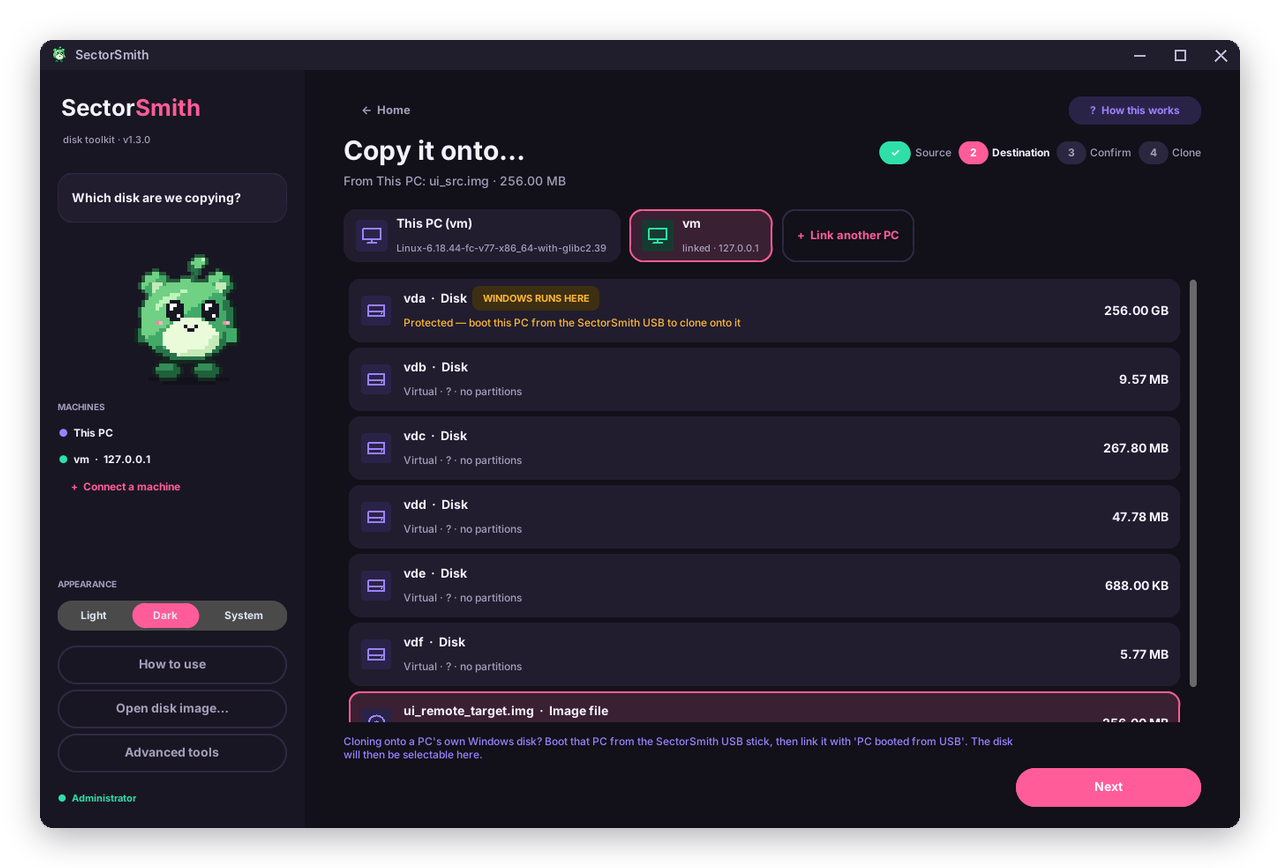
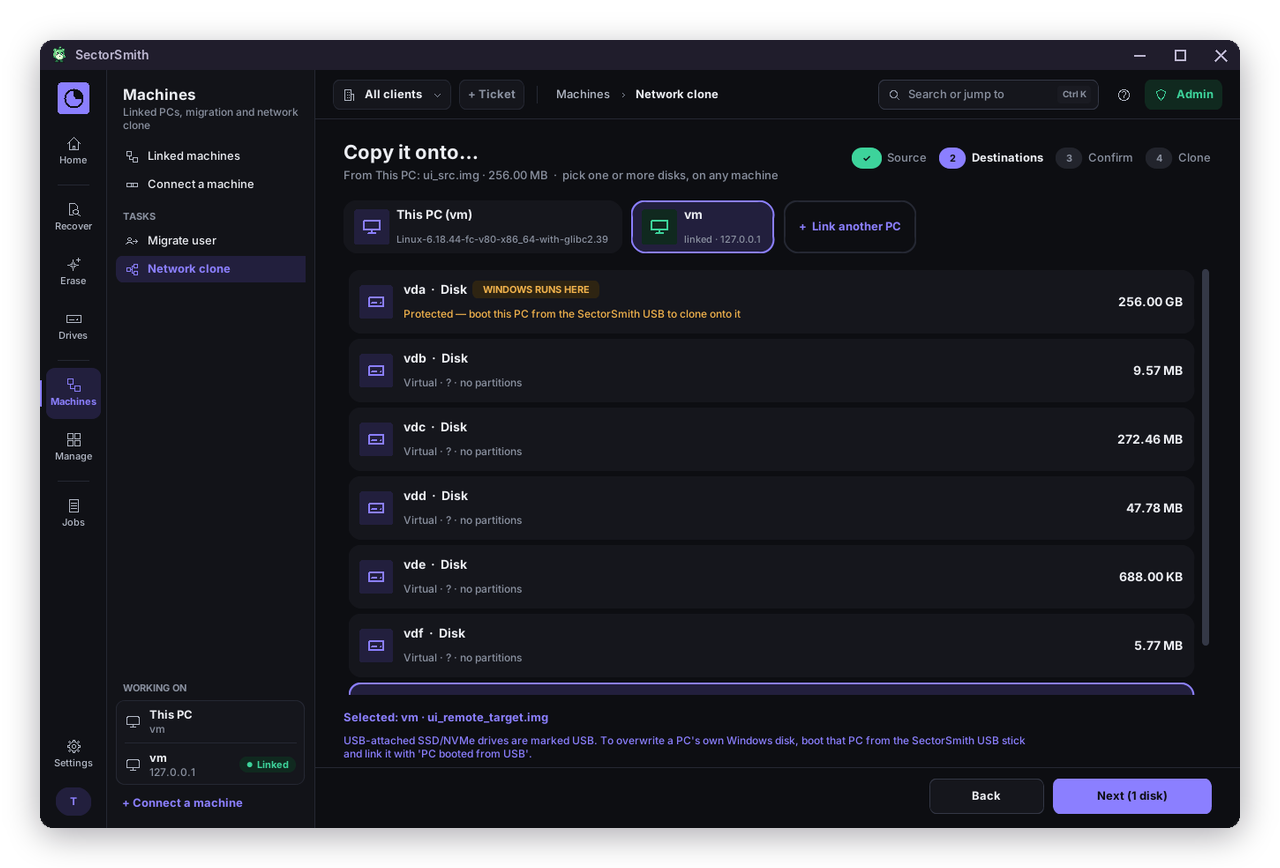
README: new UI screenshots everywhere
Regenerated all README images from the running app with tools/make_docs.py,
which now drives the new UI: correct erase phrase, a client and ticket on
every job, Home taken last so recent jobs are filled in, and new shots of
Drives, Machines, Jobs, Manage, Settings and the Ctrl+K palette. The banner
and sweep animation use the indigo theme and the new tagline.

Highlights, tour and guides now describe the grouped menu, top bar and
side panel instead of the old sidebar.

diff --git a/tools/make_docs.py b/tools/make_docs.py
@@ -42,7 +42,8 @@ def frames(anim, scale):
 # --------------------------------------------------------------------------- screenshots
 def take_screenshots():
     from tkinter import filedialog, messagebox
-    from sectorsmith.ui import main as M, screens as S, theme
+    from sectorsmith.ui import main as M, screens as S, theme, workspace as WS, settings as ST
+    from sectorsmith.ui import deploy_screens as DS
     from sectorsmith.util import app_dir
     try:
         os.remove(app_dir() / "settings.json")
@@ -108,6 +109,8 @@ def take_screenshots():
     pump(1.2)
     shot("welcome")
     press("Skip")
+    app.set_client("Northwind Dental")
+    app.set_ticket("48213")
     # hide the unreadable sandbox disks so the drive list looks like a real PC
     real = app.inventory()
     app._inventory = []
@@ -116,9 +119,6 @@ def take_screenshots():
     app._inventory = [x for x in app.inventory(True) if x[0].is_image]
     _ = real
     pump(4)  # let toasts disappear
-    shot("home_light")
-    mode("dark")
-    shot("home_dark")
 
     mode("light")
     app.go(S.RecoverWizard)
@@ -138,20 +138,20 @@ def take_screenshots():
     press("Next")
     shot("wipe_strength")
     press("Next")
-    type_confirm("WIPE PARTITION 1")
+    type_confirm("ERASE PARTITION 1")
     shot("wipe_confirm")
     # progress screen with a slow fake job so the sweeper is visible
-    _, panel = app.screen.progress("Wiping…", "NIST 800-88 Clear (1 pass + verify) on Disk 2 · Samsung T7 · 1 TB")
+    _, panel = app.screen.progress("Erasing...", "NIST 800-88 Clear (1 pass + verify) on Disk 2 · Samsung T7 · 1 TB")
     app.screen._draw_steps(3)
 
     def fake(prog):
-        prog.reset(2 * 1024 ** 3, "Pass 1 of 1 — writing zeros")
+        prog.reset(2 * 1024 ** 3, "Pass 1 of 1: writing zeros")
         prog.set_detail("pattern 0x00")
         for i in range(100):
             prog.check()
             time.sleep(.05)
             prog.update(int(.52 * prog.total * i / 100))
-    app.run_job("demo", fake, lambda r: None, panel)
+    app.run_job("Erase and certify", fake, lambda r: None, panel)
     pump(4.5)
     shot("progress_dark")
     wait()
@@ -173,7 +173,7 @@ def take_screenshots():
     shot("partitions_found")
 
     mode("light")
-    tmpd = os.path.join(W, "docs_shred")
+    tmpd = os.path.join("/tmp", "Desktop")  # short path, it shows on screen
     os.makedirs(tmpd, exist_ok=True)
     names = ["Payroll 2025.xlsx", "Client contracts", "old-passwords.txt"]
     for n in names:
@@ -199,12 +199,43 @@ def take_screenshots():
     pump(.8)
     shot("guide_dark")
 
+    shutil.rmtree(tmpd, ignore_errors=True)
+
+    # the new workspace pages
+    mode("light")
+    app.go(WS.DrivesScreen)
+    pump(1.5)
+    shot("drives_light")
+    mode("dark")
+    app.go(WS.MachinesScreen)
+    pump(1)
+    shot("machines_dark")
+    mode("light")
+    app.go(WS.JobsScreen)
+    pump(1)
+    shot("jobs_light")
+    app.go(DS.DeployScreen)
+    pump(1.2)
+    shot("manage_light")
+    app.go(ST.SettingsScreen)
+    pump(1)
+    shot("settings_light")
+    mode("dark")
+    app.home()
+    pump(.8)
+    app.open_palette()
+    pump(.8)
+    shot("palette_dark")
+    app.event_generate("<Escape>")
+    pump(.4)
+
+    # Home last, so recent jobs are filled in
     mode("light")
     app.home()
-    pump(.5)
-    app.open_advanced()
-    pump(1.5)
-    shot("advanced")
+    pump(1.2)
+    shot("home_light")
+    mode("dark")
+    shot("home_dark")
     app.destroy()
 
 
@@ -277,13 +308,15 @@ def roam_gif():
 
 def link_shots(folder):
     """Frame screenshots produced by tests/ui_link_smoke.py."""
-    mapping = {"L02_connect_linked": ("connect", False), "L05_migrate_what": ("migrate_what", False),
-               "L06_migrate_done": ("migrate_done", False), "L08_netclone_dest": ("netclone_dest", True),
-               "L10_netclone_running": ("netclone_running", True)}
+    mapping = {"connect_linked": ("connect", False), "migrate_from": ("migrate_from", False),
+               "migrate_what": ("migrate_what", False), "migrate_apps": ("migrate_apps", False),
+               "migrate_done": ("migrate_done", False), "netclone_dest": ("netclone_dest", True),
+               "netclone_running": ("netclone_running", True)}
+    files = sorted(os.listdir(folder))
     for raw, (out, dark) in mapping.items():
-        p = os.path.join(folder, raw + ".png")
-        if os.path.exists(p):
-            framed(raw, src=p, out=out, dark=dark)
+        hits = [f for f in files if f.endswith("_" + raw + ".png")]
+        if hits:
+            framed(raw, src=os.path.join(folder, hits[0]), out=out, dark=dark)
 
 
 def hero():
@@ -297,7 +330,7 @@ def hero():
     glow = Image.new("RGBA", (Wd, Hd), (0, 0, 0, 0))
     gd = ImageDraw.Draw(glow)
     gd.ellipse((-120, 220, 620, 900), fill=(82, 201, 142, 70))
-    gd.ellipse((1050, -260, 1800, 380), fill=(255, 92, 153, 60))
+    gd.ellipse((1050, -260, 1800, 380), fill=(99, 102, 241, 80))
     glow = glow.filter(ImageFilter.GaussianBlur(110))
     bg.alpha_composite(glow)
     # pixel grid texture
@@ -321,17 +354,17 @@ def hero():
     bg.alpha_composite(m, (300, Hd - m.height + 10))
     d = ImageDraw.Draw(bg)
     d.text((80, 96), "SectorSmith", font=font("xb", 92), fill=(244, 241, 255))
-    d.text((84, 204), "The friendly disk toolkit", font=font("sb", 32), fill=(214, 206, 240))
-    d.text((84, 246), "for Windows techs.", font=font("sb", 32), fill=(214, 206, 240))
-    chips = ["Recover", "Wipe", "Partitions", "Health", "Clone"]
+    d.text((84, 204), "The bench toolkit", font=font("sb", 32), fill=(214, 206, 240))
+    d.text((84, 246), "for MSP technicians.", font=font("sb", 32), fill=(214, 206, 240))
+    chips = ["Recover", "Erase", "Migrate", "Deploy", "Clone"]
     x = 86
     layer = Image.new("RGBA", (Wd, Hd), (0, 0, 0, 0))
     ld = ImageDraw.Draw(layer)
     for c in chips:
         w = ld.textlength(c, font=font("b", 19)) + 32
-        ld.rounded_rectangle((x, 308, x + w, 346), 19, fill=(255, 92, 153, 46), outline=(255, 120, 170, 190),
+        ld.rounded_rectangle((x, 308, x + w, 346), 19, fill=(99, 102, 241, 56), outline=(129, 140, 248, 200),
                              width=2)
-        ld.text((x + w / 2, 327), c, font=font("b", 19), fill=(255, 214, 230, 255), anchor="mm")
+        ld.text((x + w / 2, 327), c, font=font("b", 19), fill=(224, 231, 255, 255), anchor="mm")
         x += w + 10
     bg.alpha_composite(layer)
     bg.convert("RGB").save(os.path.join(OUT, "hero.png"), optimize=True)
@@ -378,8 +411,8 @@ def sweep_gif():
         bx = left + 22 * 3
         by = top - 4
         w = 18 + 11 * len(txt)
-        d.rectangle((bx - w / 2 - 3, by - 30, bx + w / 2 + 3, by + 3), fill=(178, 52, 104))
-        d.rectangle((bx - w / 2, by - 27, bx + w / 2, by), fill=(255, 92, 153))
+        d.rectangle((bx - w / 2 - 3, by - 30, bx + w / 2 + 3, by + 3), fill=(55, 48, 163))
+        d.rectangle((bx - w / 2, by - 27, bx + w / 2, by), fill=(99, 102, 241))
         d.text((bx, by - 13), txt, font=font("b", 16), fill=(255, 255, 255), anchor="mm")
         imgs.append(im)
     imgs[0].save(os.path.join(OUT, "sweep.gif"), save_all=True, append_images=imgs[1:], duration=70, loop=0,
@@ -414,7 +447,8 @@ if __name__ == "__main__":
         take_screenshots()
     for n in ["welcome", "home_light", "home_dark", "recover_pick", "recover_type", "recover_results",
               "wipe_strength", "wipe_confirm", "progress_dark", "health_result", "partitions_found", "shred_drop",
-              "clone_dest", "guide_dark", "advanced"]:
+              "clone_dest", "guide_dark", "drives_light", "machines_dark", "jobs_light", "manage_light",
+              "settings_light", "palette_dark"]:
         framed(n)
     hero()
     sweep_gif()

diff --git a/README.md b/README.md
@@ -27,45 +27,44 @@
 <tr>
 <td width="50%" valign="top">
 
-### Step-by-step wizards
-Every job uses the same pattern: **pick a drive → choose options → confirm → done**. Progress dots show where you are, and a **How this works** button is always one click away.
+### Built around the job
+The menu is grouped by what you're doing: **Recover, Erase, Drives, Machines, Manage, Jobs**. Every wizard follows the same pattern, **pick → choose → confirm → done**, and **Ctrl+K** finds any job, drive or machine from anywhere.
 
 </td>
 <td width="50%" valign="top">
 
-### Meet Mossbit
-<img src="docs/images/mossbit.gif" align="right" width="110">
-
-Mossbit is a hand-shaded pixel sprite that reacts to what's happening. It **sweeps across every progress bar**, celebrates when a job finishes, and looks worried when a drive has errors.
+### Client and ticket on every job
+Pick the client and type the ticket number in the top bar. Every job, report and certificate is stamped with **client, ticket and technician**, and the Jobs page shows what ran, where and for whom.
 
 </td>
 </tr>
 <tr>
 <td valign="top">
 
-### Move users to a new PC
-Paste **one PowerShell command** on the new machine (remote session or RMM shell). Both PCs then appear in one window. You choose the user and what comes across, and the files move over an **encrypted link**. Run it again later and only the changes are copied.
+### Migrate users, with their apps
+Paste **one PowerShell command** on the new PC (remote session or RMM shell), or plug the old disk into a USB caddy. Pick the user and what comes across, and SectorSmith reinstalls their apps before copying files over an **encrypted link**. Run it again later and only changes are copied.
 
 </td>
 <td valign="top">
 
-### Mossbit roams around
-<img src="docs/images/mossbit_roam.gif" width="100%">
-Mossbit strolls around the sidebar, turns to glance back, sweeps while work runs, and hops when a job is done. Click it for a little celebration.
+### Erase and certify
+Uses the drive's own **ATA Secure Erase or NVMe Sanitize** when it can (NIST 800-88 Purge), checks the result, and produces a **branded A4 certificate** with your logo, the drive's serial and a QR code.
 
 </td>
 </tr>
 <tr>
 <td valign="top">
 
-### Built for MSP work
-Wipe certificates with drive model, serial number, method and verification result. ddrescue-style imaging that keeps going through bad sectors. The system disk is protected, and a partition-table backup is saved before any change.
+### Deploy software (preview)
+Drop an installer to build a package with silent switches and detection. Deploy to every PC, one client or one PC, and run maintenance with a **check step before anything changes**.
 
 </td>
 <td valign="top">
 
-### Light, Dark or System
-The appearance follows Windows or your own choice, and it's remembered. Drag and drop works everywhere: drop files to shred them, or drop a `.img` / `.vhd` to open it as a drive.
+### Mossbit, on your terms
+<img src="docs/images/mossbit.gif" align="right" width="90">
+
+The pixel helper sweeps progress bars and reacts to results. Choose **Full, Subtle (default) or Off** in Settings, and press **Ctrl+Shift+P** for Presentation mode when you're sharing your screen with a client.
 
 </td>
 </tr>
@@ -73,7 +72,7 @@ The appearance follows Windows or your own choice, and it's remembered. Drag and
 
 <div align="center">
 <img src="docs/images/sweep.gif" alt="Mossbit sweeping the progress bar" width="80%">
-<br><sub>Mossbit sweeps the progress bar clean while a wipe runs.</sub>
+<br><sub>Mossbit sweeps the progress bar clean while an erase runs.</sub>
 </div>
 
 ---
@@ -90,24 +89,36 @@ The appearance follows Windows or your own choice, and it's remembered. Drag and
 
 <table>
 <tr>
-<td><img src="docs/images/redesign/home_light.png" alt="Home, light"><p align="center"><sub><b>Home</b> · light</sub></p></td>
-<td><img src="docs/images/redesign/home_dark.png" alt="Home, dark"><p align="center"><sub><b>Home</b> · dark</sub></p></td>
+<td><img src="docs/images/home_light.png" alt="Home, light"><p align="center"><sub><b>Home</b>: today's jobs, linked machines, start a job</sub></p></td>
+<td><img src="docs/images/home_dark.png" alt="Home, dark"><p align="center"><sub><b>Home</b> · dark</sub></p></td>
 </tr>
 <tr>
-<td><img src="docs/images/redesign/drives_light.png" alt="Drives"><p align="center"><sub><b>Drives</b>: pick a drive, then the job</sub></p></td>
-<td><img src="docs/images/redesign/palette_light.png" alt="Command palette"><p align="center"><sub><b>Ctrl+K</b> to find any job</sub></p></td>
+<td><img src="docs/images/drives_light.png" alt="Drives"><p align="center"><sub><b>Drives</b>: pick a drive, then the job</sub></p></td>
+<td><img src="docs/images/palette_dark.png" alt="Command palette"><p align="center"><sub><b>Ctrl+K</b> finds any job, drive or machine</sub></p></td>
 </tr>
 <tr>
 <td><img src="docs/images/recover_results.png" alt="Deleted files found"><p align="center"><sub><b>Recover files</b> with original names and folders</sub></p></td>
-<td><img src="docs/images/progress_dark.png" alt="Wipe in progress"><p align="center"><sub><b>Live progress</b>: speed, time left, processed</sub></p></td>
+<td><img src="docs/images/wipe_confirm.png" alt="Erase confirmation"><p align="center"><sub><b>Erase and certify</b>: typed confirmation</sub></p></td>
+</tr>
+<tr>
+<td><img src="docs/images/progress_dark.png" alt="Erase in progress"><p align="center"><sub><b>Live progress</b>: speed, time left, processed</sub></p></td>
+<td><img src="docs/images/health_result.png" alt="Health check"><p align="center"><sub><b>Drive health</b> in plain English</sub></p></td>
 </tr>
 <tr>
 <td><img src="docs/images/connect.png" alt="Connect a machine"><p align="center"><sub><b>Connect a machine</b> with one command</sub></p></td>
-<td><img src="docs/images/migrate_what.png" alt="Move a user"><p align="center"><sub><b>Move a user</b>: pick what comes across</sub></p></td>
+<td><img src="docs/images/migrate_what.png" alt="Migrate user"><p align="center"><sub><b>Migrate user</b>: pick what comes across</sub></p></td>
+</tr>
+<tr>
+<td><img src="docs/images/machines_dark.png" alt="Machines"><p align="center"><sub><b>Machines</b>: linked PCs, migration and network clone</sub></p></td>
+<td><img src="docs/images/jobs_light.png" alt="Jobs"><p align="center"><sub><b>Jobs</b>: every job with client, ticket and result</sub></p></td>
+</tr>
+<tr>
+<td><img src="docs/images/manage_light.png" alt="Manage"><p align="center"><sub><b>Manage</b>: software library and deployments</sub></p></td>
+<td><img src="docs/images/settings_light.png" alt="Settings"><p align="center"><sub><b>Settings</b>: theme, Mossbit, presentation mode, branding</sub></p></td>
 </tr>
 <tr>
 <td><img src="docs/images/partitions_found.png" alt="Lost partitions found"><p align="center"><sub><b>Lost partitions</b> found and ready to restore</sub></p></td>
-<td><img src="docs/images/health_result.png" alt="Health check"><p align="center"><sub><b>Drive health</b> in plain English</sub></p></td>
+<td><img src="docs/images/shred_drop.png" alt="Shred files"><p align="center"><sub><b>Shred files</b>: drop them in</sub></p></td>
 </tr>
 </table>
 
@@ -176,12 +187,12 @@ Use this when a drive suddenly shows as unallocated, RAW or "needs formatting", 
 <img src="docs/images/partitions_found.png" width="70%">
 
 > [!TIP]
-> Afterwards, Windows may need a rescan: **Disk Management → Action → Rescan Disks**. To undo, restore the saved backup from **Advanced tools → Overview**.
+> Afterwards, Windows may need a rescan: **Disk Management → Action → Rescan Disks**. To undo, restore the saved backup from **Drives → Expert tools → Overview**.
 
 </details>
 
 <details>
-<summary><b>🧽 Wipe a drive</b></summary>
+<summary><b>🧽 Erase and certify a drive</b></summary>
 
 <br>
 
@@ -198,7 +209,7 @@ Securely erase a whole disk or a single partition before it's reused, returned o
    | **Thorough** | DoD 5220.22-M 3-pass + verify | Policy requires multi-pass |
    | *More…* | HMG IS5, DoD 7-pass, Schneier, Gutmann 35, custom pattern | Special requirements |
 
-4. **Type to confirm**, e.g. `WIPE DISK 2`.
+4. **Type to confirm**, e.g. `ERASE DISK 2 A1B2C3` (the last 6 characters of the serial) or `ERASE PARTITION 1`.
 5. **Save the certificate.** A sober A4 page (print it to PDF) with your company name and logo (Settings, Branding), client, ticket, technician, machine, drive model, serial and capacity, method, hardware or software erase, NIST category, verification result, times, a certificate ID and a QR code holding the ID and a SHA-256 of the record.
 
 <img src="docs/images/wipe_strength.png" width="49%"> <img src="docs/images/wipe_confirm.png" width="49%">
@@ -258,9 +269,9 @@ Copying works like ddrescue. A fast pass skips problem areas, then they're retri
 
 Link another PC on the same network (same site or over a VPN) so you can work on both from one window. This is ideal when you're remoted into a new machine.
 
-1. Open **Connect a machine** (on Home, or **+ Connect a machine** in the sidebar). SectorSmith starts a secure listener and shows a one-line PowerShell command.
+1. Open **Machines → Connect a machine** (or **Connect a machine** on Home). SectorSmith starts a secure listener and shows a one-line PowerShell command.
 2. On the other PC, either remote in or use your RMM's PowerShell shell (Datto RMM works). Open PowerShell **as administrator**, paste the command and press **Enter**.
-3. The command downloads SectorSmith **from your PC**, checks its **SHA-256**, and links up. The other PC then appears under **MACHINES** in the sidebar.
+3. The command downloads SectorSmith **from your PC**, checks its **SHA-256**, and links up. The other PC then appears on the **Machines** page and under **Working on** in the side panel.
 
 <img src="docs/images/connect.png" width="70%">
 
@@ -315,7 +326,7 @@ Copy a whole disk, sector by sector, from one PC to another over the network. Em
 </details>
 
 <details>
-<summary><b>🛠 Advanced tools (expert mode)</b></summary>
+<summary><b>🛠 Expert tools</b></summary>
 
 <br>
 
@@ -326,11 +337,11 @@ The classic tabbed interface opens in its own window, with every option exposed:
 
 Run `SectorSmith.exe --classic` to open straight into this view.
 
-<img src="docs/images/advanced.png" width="70%">
+Open it from **Drives → Expert tools**, or with Ctrl+K.
 
 </details>
 
-There's also a **How to use** button in the app's sidebar, with these guides built in.
+These guides are built in too: **Settings → How to use**, or the **?** in the top bar.
 
 <img src="docs/images/guide_dark.png" width="70%">
 
@@ -341,7 +352,7 @@ There's also a **How to use** button in the app's sidebar, with these guides bui
 | | |
 |---|---|
 | 🔒 **System disk protected** | The disk Windows is running from can't be wiped, cloned over, restored over or edited. To wipe it, boot from USB. |
-| ⌨ **Typed confirmations** | Anything permanent asks you to type a phrase like `WIPE DISK 2`, so a stray click can't destroy data. |
+| ⌨ **Typed confirmations** | Anything permanent asks you to type a phrase like `ERASE DISK 2 A1B2C3`, so a stray click can't destroy data. |
 | 💾 **Automatic backups** | The partition-table area (first and last 1 MiB of the disk) is saved before any table change. |
 | 🔐 **Safe raw writes** | Volumes on the target disk are locked and dismounted before raw writes, then released. |
 | 📝 **Logs** | Every operation is logged to `%LOCALAPPDATA%\SectorSmith\sectorsmith.log`. |
@@ -351,7 +362,7 @@ There's also a **How to use** button in the app's sidebar, with these guides bui
 ## ❓ FAQ
 
 <details><summary><b>Why can't I see my drives?</b></summary>
-SectorSmith needs administrator rights to open physical disks. Accept the UAC prompt, or right-click → <i>Run as administrator</i>. The sidebar shows <b>● Administrator</b> when it's elevated.
+SectorSmith needs administrator rights to open physical disks. Accept the UAC prompt, or right-click → <i>Run as administrator</i>. The top bar shows <b>Admin</b> when it's elevated.
 </details>
 
 <details><summary><b>Quick scan is greyed out</b></summary>
@@ -359,7 +370,7 @@ Quick scan reads the NTFS file table, so it needs an NTFS partition. Pick one, o
 </details>
 
 <details><summary><b>How many wipe passes do I need?</b></summary>
-For modern hard drives, one verified pass (NIST 800-88 Clear) is the accepted standard. Extra passes add time, not security. For SSDs, see the warning in the Wipe guide.
+For modern hard drives, one verified pass (NIST 800-88 Clear) is the accepted standard. Extra passes add time, not security. For SSDs and NVMe drives, use the drive's own erase (see the Erase guide).
 </details>
 
 <details><summary><b>Can I recover files from a drive that's failing?</b></summary>
